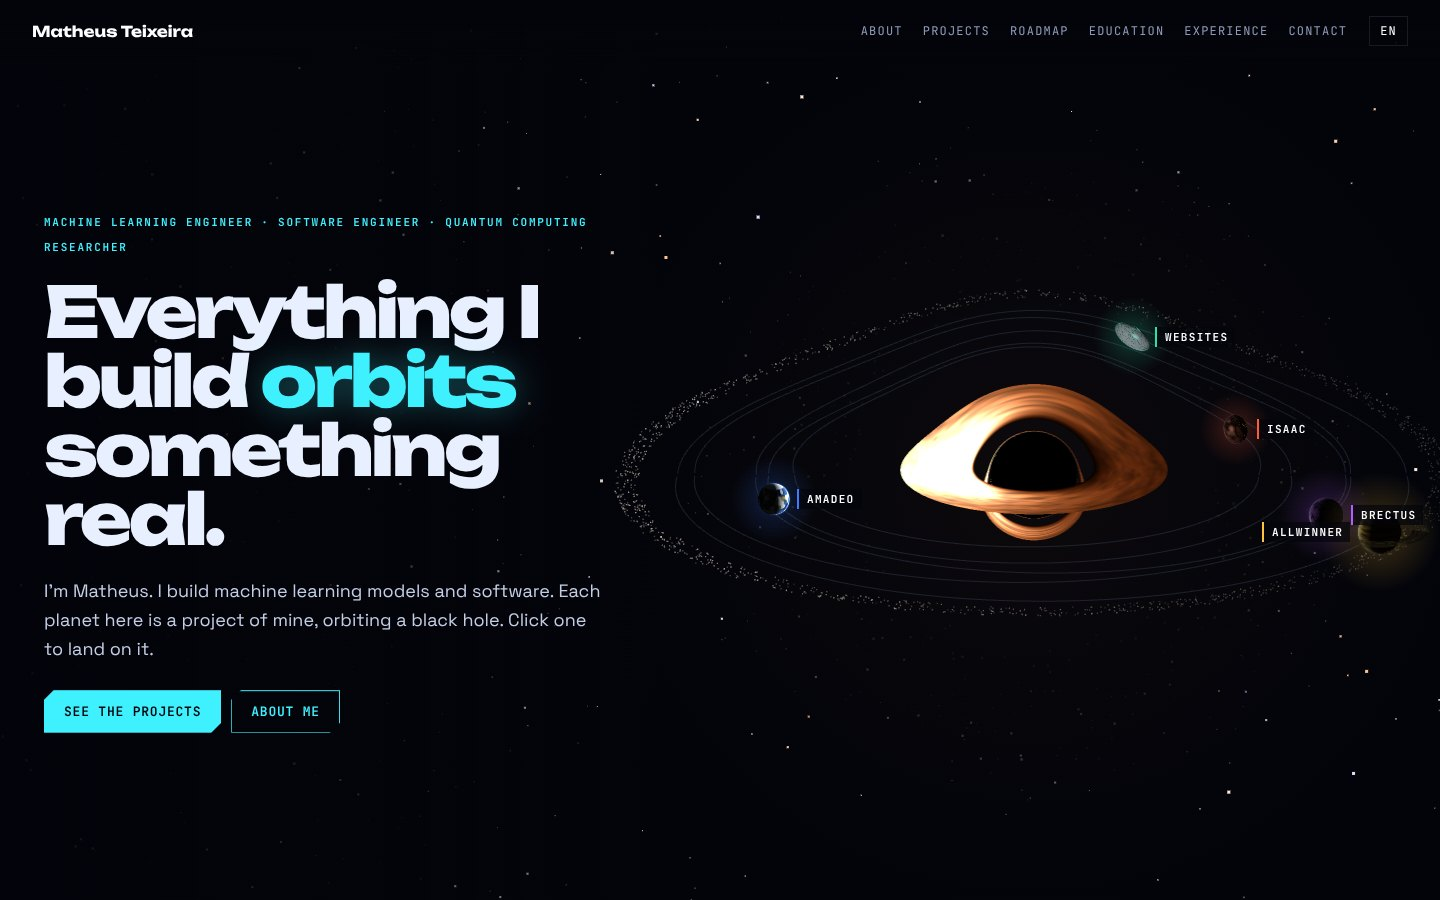
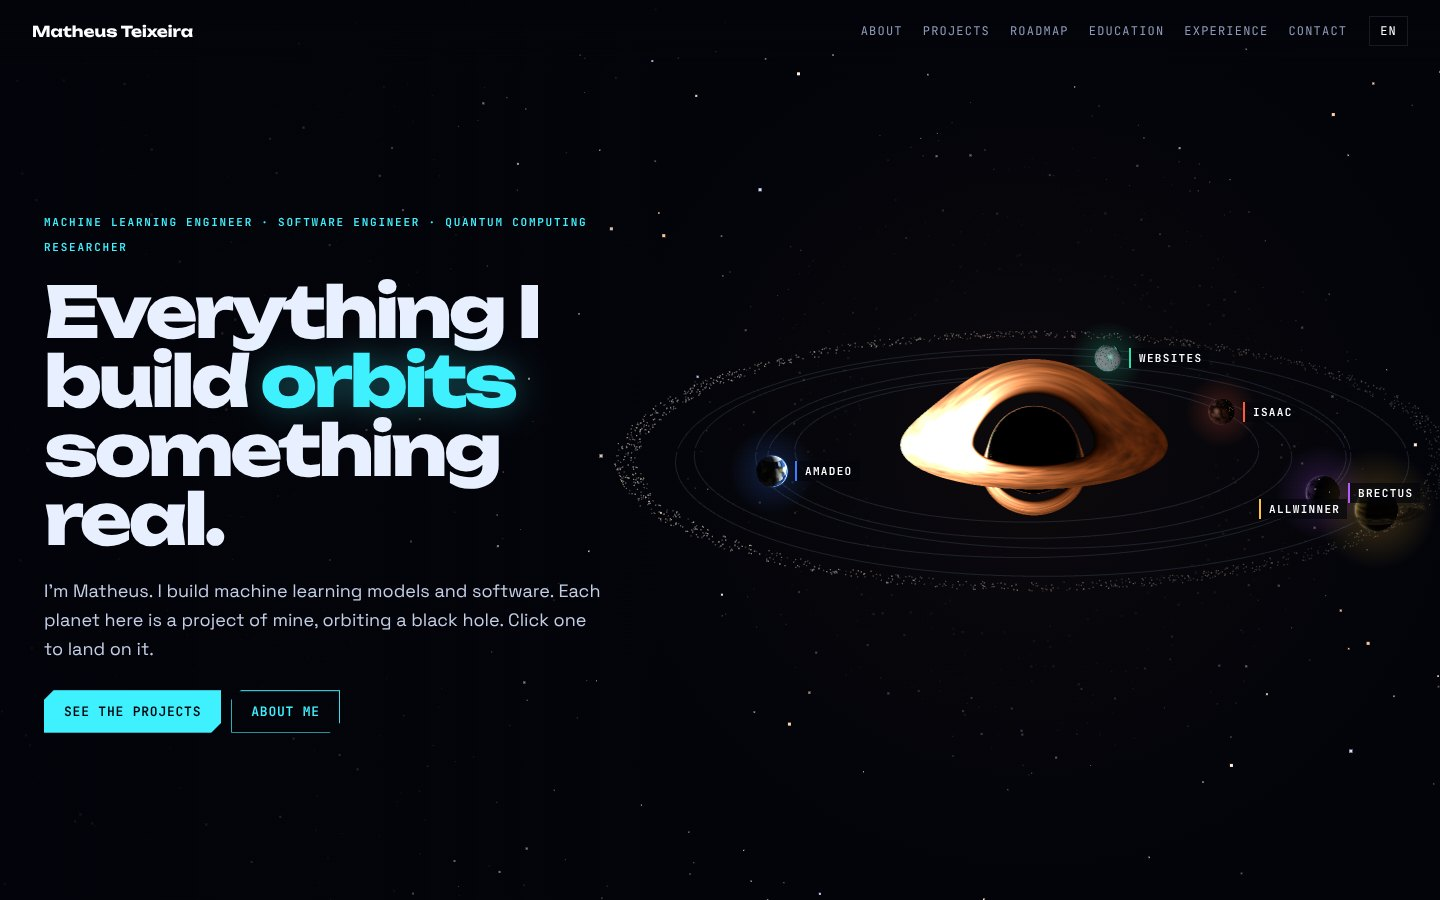
Draw the orbits, belt and planets flat again
The lensed orbits looked distorted. The disc still turns and the stars
are still lensed.

diff --git a/src/assets/js/sky.js b/src/assets/js/sky.js
@@ -62,17 +62,6 @@
     return [[tp * ux, tp * uy, rp, tp / s, rp * tp / s], [tm * ux, tm * uy, rm, tm / s, Math.abs(rm * tm / s)]];
   }
 
-  // Where a point of the disc plane (r, azimuth from the camera) is seen: the flat projection, bent
-  // by the hole when the point lies behind it. A point at depth z behind the hole is a source for a
-  // point-mass lens with Einstein radius squared 4 z D / (D + z) (D = CAM), measured at the hole.
-  // Returns [X, Y, radial stretch, tangential stretch, ux, uy] with (ux, uy) the outward direction.
-  function seen(r, ph) {
-    const f = flatP(r, ph), z = -r * Math.cos(ph) * SI;
-    if (z <= 0) return [f[0], f[1], 1, 1, 1, 0];
-    const s = Math.max(.05, Math.hypot(f[0], f[1])), im = lens(f[0], f[1], 4 * z * CAM / (CAM + z))[0];
-    return [im[0], im[1], im[2], im[3], f[0] / s, f[1] / s];
-  }
-
   // ---------- Canvases and layout ----------
   const sky = document.getElementById('sky'), bg = document.getElementById('bg'), fg = document.getElementById('fg'), bhc = document.getElementById('bh');
   const still = document.getElementById('bhstill'), labs = document.getElementById('labs');
@@ -88,16 +77,12 @@
     // Desktop: fit the outermost planet's orbit (apoapsis APO) in the space beside the intro text,
     // so no planet ever passes under the headline. The belt may run behind the text.
     const APO = Math.max(...PL.map(p => p.a * (1 + p.e)));
-    // Vertical room: the far side of the outer orbit is lifted by the hole's lensing to about 22 M
-    // above it, the near side reaches about 15.5 M below (perspective); planets add their radius.
-    const UP = 24.5, DN = 18.5;
     let cx = w * .5, cy = h * .5, K;
-    if (mob) K = Math.min((w - 16) / (2 * (APO + 3)), h / (UP + DN + 4)); // every planet stays on a phone screen
+    if (mob) K = Math.min((w - 16) / (2 * (APO + 3)), h / (2 * 17)); // every planet stays on a phone screen
     else {
       const free = S.rtl ? IR.l - 16 : w - IR.r - 16;
-      K = Math.max(5, Math.min(h * .94 / (UP + DN), free / (2 * APO + 4)));
+      K = Math.max(5, Math.min(h * .86 / (2 * 19), free / (2 * APO + 4)));
       cx = S.rtl ? IR.l - 8 - (APO + 2) * K : IR.r + 8 + (APO + 2) * K;
-      cy = (h - (UP + DN) * K) / 2 + UP * K;
     }
     K = Math.max(.5, K);   // a hidden or collapsed pane can report no width or height
     for (const c of [bg, fg, sc]) { c.width = Math.round(w * dpr); c.height = Math.round(h * dpr); }
@@ -359,17 +344,15 @@ void main(){ivec2 p=ivec2(gl_FragCoord.xy);vec4 c=texelFetch(uC,p,0),g=texelFetc
       ctx.strokeStyle = col; ctx.lineWidth = (on ? 1.6 : 1) * dpr; ctx.beginPath();
       let pen = false;
       for (const [r, ph] of pts) {
-        if ((which === 'f') === front(ph)) { const v = seen(r, ph), x = (cx + v[0] * K) * dpr, y = (cy - v[1] * K) * dpr; pen ? ctx.lineTo(x, y) : ctx.moveTo(x, y); pen = true; } else pen = false;
+        if ((which === 'f') === front(ph)) { const v = flatP(r, ph), x = (cx + v[0] * K) * dpr, y = (cy - v[1] * K) * dpr; pen ? ctx.lineTo(x, y) : ctx.moveTo(x, y); pen = true; } else pen = false;
       }
       ctx.stroke();
     }
   }
-  // Planet image on screen now, bent by the hole: moved outwards and stretched along the ring
-  // round the hole (M maps the planet's disc to its image, screen axes, Y up).
+  // Planet position on screen now, as seen without the bending of light: the orbits stay flat.
   function planetImage(p) {
-    const p3 = orbit(p, tau), [r, ph] = polar(p3), v = seen(r, ph);
-    const a = Math.min(3, v[2]), b = Math.min(3, v[3]), ux = v[4], uy = v[5], d = (a - b) * ux * uy;
-    return { X: v[0], Y: v[1], X0: flatP(r, ph)[0], M: [a * ux * ux + b * uy * uy, d, d, a * uy * uy + b * ux * ux], k: Math.sqrt(a * b), p3, r, ph };
+    const p3 = orbit(p, tau), [r, ph] = polar(p3), f = flatP(r, ph);
+    return { X: f[0], Y: f[1], X0: f[0], M: [1, 0, 0, 1], k: 1, p3, r, ph };
   }
   function draw() {
     const { w, h, cx, cy, K } = L, W = w * dpr, H = h * dpr;
@@ -390,9 +373,8 @@ void main(){ivec2 p=ivec2(gl_FragCoord.xy);vec4 c=texelFetch(uC,p,0),g=texelFetc
     const NB = 8, gs = 1.3 * dpr, bk = [[], []];
     for (let n = 0; n < NB; n++) { bk[0].push([]); bk[1].push([]); }
     for (let j = 0, step = QUAL[q].belt; j < BELT.length; j += step) {
-      const b = BELT[j], ph = b.ph + Om(b.r) * tau - phc, X0 = flatP(b.r, ph)[0], a = .5 * b.b * Math.min(3, Math.pow(gShift(b.r, X0), 4));
+      const b = BELT[j], ph = b.ph + Om(b.r) * tau - phc, v = flatP(b.r, ph), a = .5 * b.b * Math.min(3, Math.pow(gShift(b.r, v[0]), 4));
       if (a < .02) continue;
-      const v = seen(b.r, ph);
       bk[front(ph) ? 0 : 1][Math.min(NB - 1, Math.floor(Math.min(1, a) * NB))].push((cx + v[0] * K) * dpr, (cy - v[1] * K) * dpr);
     }
     [fx, bx].forEach((ctx, l) => bk[l].forEach((pts, n) => {

diff --git a/src/content/hi.py b/src/content/hi.py
@@ -479,7 +479,7 @@ C = {
    "यह ब्लैक होल उसी रे ट्रेसर से बनाया गया है जो मेरे भौतिकी सिम्युलेटर Isaac में है। हर पिक्सेल एक प्रकाश-किरण को पीछे की ओर, ब्लैक होल (जो अपनी धुरी पर नहीं घूमता) के आसपास के मुड़े हुए स्पेसटाइम से होकर ट्रेस करता है, डिस्क से 18° ऊपर से देखा गया। डिस्क गर्म गैस है, ब्लैक बॉडी के रंगों में, हमारी ओर आने वाली तरफ़ ज़्यादा चमकीली और ब्लैक होल के पास लाल विस्थापित। गैस उसी रफ़्तार से घूमती है जिससे असल में घूमती: भीतरी किनारा लगभग 2 सेकंड में एक चक्कर लगाता है, बाहरी लगभग 9 सेकंड में। छाया के चारों ओर की पतली चमकीली रिंग वह प्रकाश है जो हम तक पहुँचने से पहले ब्लैक होल का चक्कर लगा आया।",
    "ग्रह और क्षुद्रग्रह पट्टी डिस्क के तल में परिक्रमा करते हैं, सब एक ही घड़ी पर: सबसे भीतरी ग्रह लगभग 23 सेकंड में एक चक्कर लगाता है, सबसे बाहरी लगभग 46 में। उनकी दीर्घवृत्ताकार कक्षाएँ धीरे-धीरे घूमती हैं, जैसा सामान्य सापेक्षता बताती है, और हर ग्रह ब्लैक होल की ओर एक ही चेहरा रखता है।",
    "यहाँ एक सेकंड 40 M समय के बराबर है, जहाँ M समय की इकाइयों में ब्लैक होल का द्रव्यमान है। 10 करोड़ सूर्यों के ब्लैक होल के लिए यह असल गति का लगभग 20,000 गुना है। कैमरा धीरे-धीरे ब्लैक होल के चारों ओर घूमता है।",
-   "ग्रहों, पट्टी और कक्षाओं की रोशनी भी तारों की रोशनी की तरह ब्लैक होल से मुड़ती है, इसलिए हर कक्षा का पिछला हिस्सा उसके ऊपर उठा हुआ दिखता है। सिर्फ़ ग्रह पैमाने पर नहीं हैं: वे असल से हज़ारों गुना बड़े दिखाए गए हैं।"
+   "दो चीज़ें पैमाने पर नहीं हैं। कक्षाएँ, पट्टी और ग्रह उनकी रोशनी के मुड़ने के बिना बनाए गए हैं, जो हर कक्षा के पिछले हिस्से को ब्लैक होल के ऊपर उठा देता, और ग्रह असल से हज़ारों गुना बड़े दिखाए गए हैं।"
   ]
  },
  "nf": {

diff --git a/src/content/ar.py b/src/content/ar.py
@@ -479,7 +479,7 @@ C = {
    "يُرسم الثقب الأسود بمتتبّع الأشعة نفسه المستخدم في Isaac، محاكي الفيزياء الخاص بي. يتتبّع كل بكسل شعاعًا ضوئيًا إلى الوراء عبر الزمكان المنحني حول الثقب (وهو لا يدور حول نفسه)، يُرى من ارتفاع 18° فوق قرصه. القرص غاز ساخن ملوّن كجسم أسود، أشد سطوعًا في الجانب المقترب منا ومنزاح نحو الأحمر قرب الثقب. يدور الغاز بالسرعة التي كان سيدور بها فعلًا: تُكمل الحافة الداخلية دورة في نحو ثانيتين، والخارجية في نحو 9 ثوانٍ. الحلقة الرفيعة الساطعة حول الظل ضوء دار حول الثقب قبل أن يصل إلينا.",
    "تدور الكواكب وحزام الكويكبات في مستوى القرص، وكلها على ساعة واحدة: يكمل أقرب كوكب دورته في نحو 23 ثانية، وأبعدها في نحو 46. تدور قطوعها الناقصة ببطء كما تتنبأ النسبية العامة، ويُبقي كل كوكب وجهًا واحدًا نحو الثقب.",
    "الثانية هنا تساوي 40 M من الزمن، حيث M كتلة الثقب بوحدات الزمن. لثقب كتلته 100 مليون شمس، هذا نحو 20,000 ضعف السرعة الحقيقية. تدور الكاميرا ببطء حول الثقب.",
-   "ضوء الكواكب والحزام والمدارات ينحني حول الثقب كما ينحني ضوء النجوم، ولذلك يبدو الجانب البعيد من كل مدار مرفوعًا فوقه. الكواكب وحدها ليست بمقياس حقيقي: فهي مرسومة أكبر بآلاف المرات مما ستكون عليه."
+   "شيئان ليسا بمقياس حقيقي. المدارات والحزام والكواكب مرسومة دون انحناء ضوئها، الذي كان سيرفع الجانب البعيد من كل مدار فوق الثقب، والكواكب مرسومة أكبر بآلاف المرات مما ستكون عليه."
   ]
  },
  "nf": {

diff --git a/src/content/fr.py b/src/content/fr.py
@@ -479,7 +479,7 @@ C = {
    "Le trou noir est dessiné avec le même lancer de rayons qu’Isaac, mon simulateur de physique. Chaque pixel suit un rayon de lumière à rebours dans l’espace-temps courbe autour du trou (qui ne tourne pas sur lui-même), vu 18° au-dessus de son disque. Le disque est un gaz chaud, coloré comme un corps noir, plus brillant du côté qui vient vers nous et décalé vers le rouge près du trou. Le gaz tourne à la vitesse qu’il aurait réellement : le bord intérieur fait un tour en 2 secondes environ, le bord extérieur en 9. L’anneau fin et brillant autour de l’ombre est de la lumière qui a fait le tour du trou avant de nous atteindre.",
    "Les planètes et la ceinture d’astéroïdes orbitent dans le plan du disque, toutes sur la même horloge : la planète la plus proche fait un tour en environ 23 secondes, la plus éloignée en environ 46. Leurs ellipses tournent lentement, comme le prévoit la relativité générale, et chaque planète garde une face tournée vers le trou.",
    "Une seconde ici vaut 40 M de temps, où M est la masse du trou exprimée en temps. Pour un trou de 100 millions de soleils, cela fait environ 20 000 fois la vitesse réelle. La caméra tourne lentement autour du trou.",
-   "La lumière des planètes, de la ceinture et des orbites est déviée par le trou, comme celle des étoiles : l’arrière de chaque orbite paraît donc relevé au-dessus de lui. Seules les planètes ne sont pas à l’échelle : elles sont dessinées des milliers de fois plus grandes qu’elles ne le seraient."
+   "Deux choses ne sont pas à l’échelle. Les orbites, la ceinture et les planètes sont dessinées sans la déviation de leur lumière, qui relèverait l’arrière de chaque orbite au-dessus du trou, et les planètes sont dessinées des milliers de fois plus grandes qu’elles ne le seraient."
   ]
  },
  "nf": {

diff --git a/src/content/de.py b/src/content/de.py
@@ -479,7 +479,7 @@ C = {
    "Das Schwarze Loch wird mit demselben Raytracer gezeichnet wie in Isaac, meinem Physiksimulator. Jedes Pixel folgt einem Lichtstrahl rückwärts durch die gekrümmte Raumzeit um das Loch (das sich nicht dreht), gesehen 18° über seiner Scheibe. Die Scheibe ist heißes Gas, gefärbt wie ein schwarzer Körper, heller auf der Seite, die auf uns zukommt, und nahe am Loch rotverschoben. Das Gas kreist so schnell, wie es das wirklich täte: Der innere Rand braucht für eine Runde etwa 2 Sekunden, der äußere etwa 9. Der dünne helle Ring um den Schatten ist Licht, das das Loch umrundet hat, bevor es uns erreicht.",
    "Die Planeten und der Asteroidengürtel umkreisen das Loch in der Ebene der Scheibe, alle nach derselben Uhr: Der innerste Planet braucht für eine Runde etwa 23 Sekunden, der äußerste etwa 46. Ihre Ellipsen drehen sich langsam, wie die allgemeine Relativitätstheorie vorhersagt, und jeder Planet wendet dem Loch stets dieselbe Seite zu.",
    "Eine Sekunde hier sind 40 M Zeit, wobei M die Masse des Lochs in Zeiteinheiten ist. Für ein Loch von 100 Millionen Sonnen sind das etwa 20.000-fache Echtzeit. Die Kamera kreist langsam um das Loch.",
-   "Das Licht der Planeten, des Gürtels und der Umlaufbahnen wird vom Loch abgelenkt wie das der Sterne, deshalb erscheint die Rückseite jeder Umlaufbahn über das Loch gehoben. Nur die Planeten sind nicht maßstabsgetreu: Sie sind tausendfach größer gezeichnet, als sie wären."
+   "Zwei Dinge sind nicht maßstabsgetreu. Umlaufbahnen, Gürtel und Planeten sind ohne die Ablenkung ihres Lichts gezeichnet, die die Rückseite jeder Umlaufbahn über das Loch heben würde, und die Planeten sind tausendfach größer gezeichnet, als sie wären."
   ]
  },
  "nf": {

diff --git a/src/content/es.py b/src/content/es.py
@@ -479,7 +479,7 @@ C = {
    "El agujero negro se dibuja con el mismo trazador de rayos que Isaac, mi simulador de física. Cada píxel sigue un rayo de luz hacia atrás por el espacio-tiempo curvo alrededor del agujero (que no gira), visto 18° por encima de su disco. El disco es gas caliente, coloreado como un cuerpo negro, más brillante en el lado que se acerca y desplazado al rojo cerca del agujero. El gas gira a la velocidad que tendría de verdad: el borde interior da una vuelta en unos 2 segundos, el exterior en unos 9. El anillo fino y brillante alrededor de la sombra es luz que rodeó el agujero antes de llegar hasta nosotros.",
    "Los planetas y el cinturón de asteroides orbitan en el plano del disco, todos con el mismo reloj: el planeta más interior da una vuelta en unos 23 segundos, el más exterior en unos 46. Sus elipses giran despacio, como predice la relatividad general, y cada planeta muestra siempre la misma cara al agujero.",
    "Un segundo aquí equivale a 40 M de tiempo, donde M es la masa del agujero en unidades de tiempo. Para un agujero de 100 millones de soles, son unas 20.000 veces la velocidad real. La cámara gira despacio alrededor del agujero.",
-   "La luz de los planetas, del cinturón y de las órbitas se curva junto al agujero, como la de las estrellas, y por eso la parte trasera de cada órbita aparece levantada sobre él. Solo los planetas no están a escala: se dibujan miles de veces más grandes de lo que serían."
+   "Dos cosas no están a escala. Las órbitas, el cinturón y los planetas se dibujan sin la curvatura de su luz, que levantaría la parte trasera de cada órbita sobre el agujero, y los planetas se dibujan miles de veces más grandes de lo que serían."
   ]
  },
  "nf": {

diff --git a/src/content/pt.py b/src/content/pt.py
@@ -479,7 +479,7 @@ C = {
    "O buraco negro é desenhado com o mesmo traçador de raios do Isaac, meu simulador de física. Cada pixel segue um raio de luz de volta pelo espaço-tempo curvo em torno do buraco (que não gira), visto 18° acima do disco. O disco é gás quente, colorido como um corpo negro, mais brilhante do lado que vem em nossa direção e desviado para o vermelho perto do buraco. O gás gira na velocidade que teria de verdade: a borda interna dá uma volta em cerca de 2 segundos, a externa em cerca de 9. O anel fino e brilhante em volta da sombra é luz que contornou o buraco antes de chegar até nós.",
    "Os planetas e o cinturão de asteroides orbitam no plano do disco, todos no mesmo relógio: o planeta mais interno dá uma volta em cerca de 23 segundos, o mais externo em cerca de 46. As elipses giram devagar, como prevê a relatividade geral, e cada planeta mantém uma face voltada para o buraco.",
    "Um segundo aqui são 40 M de tempo, em que M é a massa do buraco em unidades de tempo. Para um buraco de 100 milhões de sóis, isso é cerca de 20.000 vezes a velocidade real. A câmera gira devagar em torno do buraco.",
-   "A luz dos planetas, do cinturão e das órbitas é desviada pelo buraco, como a das estrelas, e por isso o lado de trás de cada órbita aparece erguido acima dele. Só os planetas não estão em escala: aparecem milhares de vezes maiores do que seriam."
+   "Duas coisas não estão em escala. As órbitas, o cinturão e os planetas são desenhados sem o desvio da sua luz, que ergueria o lado de trás de cada órbita acima do buraco, e os planetas aparecem milhares de vezes maiores do que seriam."
   ]
  },
  "nf": {

diff --git a/src/content/en.py b/src/content/en.py
@@ -529,7 +529,7 @@ C = {
    "The black hole is drawn with the same ray tracer as Isaac, my physics simulator. Every pixel follows a light ray back through the curved spacetime around the hole (which does not spin), seen from 18° above its disc. The disc is hot gas, coloured as a black body, brighter on the side moving towards us and redshifted close to the hole. The gas orbits as fast as it really would: the inner edge goes round in about 2 seconds, the outer edge in about 9. The thin bright ring around the shadow is light that circled the hole before reaching us.",
    "The planets and the asteroid belt orbit in the plane of the disc, all on one clock: the innermost planet laps in about 23 seconds, the outermost in about 46. Their ellipses turn slowly, as general relativity predicts, and each planet keeps one face towards the hole.",
    "One second here is 40 M of time, where M is the hole’s mass in units of time. For a hole of 100 million suns, that is about 20,000 times real speed. The camera drifts slowly around the hole.",
-   "The light of the planets, the belt and the orbits is bent by the hole, like the light of the stars, so the far side of every orbit appears lifted over it. Only the planets are not to scale: they are drawn thousands of times larger than they would be."
+   "Two things are not to scale. The orbits, the belt and the planets are drawn without the bending of their light, which would lift the far side of every orbit over the hole, and the planets are drawn thousands of times larger than they would be."
   ]
  },
  "nf": {

diff --git a/src/content/zh.py b/src/content/zh.py
@@ -479,7 +479,7 @@ C = {
    "这个黑洞用的是和我的物理模拟器 Isaac 相同的光线追踪器。每个像素都沿一条光线反向穿过黑洞（不自转）周围的弯曲时空，视角在吸积盘上方 18°。吸积盘是炽热的气体，按黑体着色，朝我们运动的一侧更亮，靠近黑洞处发生红移。气体以真实的速度绕转：内缘约 2 秒转一圈，外缘约 9 秒。阴影周围那道细亮的光环，是绕过黑洞后才到达我们的光。",
    "行星和小行星带在吸积盘平面内运行，共用一个时钟：最内侧的行星约 23 秒转一圈，最外侧约 46 秒。它们的椭圆轨道缓慢转动，正如广义相对论所预言，每颗行星始终以同一面朝向黑洞。",
    "这里的一秒相当于 40 M 的时间，M 是以时间为单位的黑洞质量。对一个一亿倍太阳质量的黑洞，这大约是真实速度的 20,000 倍。镜头缓慢绕黑洞转动。",
-   "行星、小行星带和轨道的光线也像星光一样被黑洞弯曲，所以每条轨道的远侧看起来被抬到了黑洞上方。只有行星不按比例：它们被画得比实际大几千倍。"
+   "有两处不按比例。轨道、小行星带和行星在绘制时没有考虑其光线的弯曲（否则每条轨道的远侧会被抬到黑洞上方），行星也被画得比实际大几千倍。"
   ]
  },
  "nf": {

diff --git a/README.md b/README.md
@@ -46,12 +46,12 @@ The planets and the belt orbit in the plane of the disc on one clock (40 M of ti
 distance scale. Planet orbits precess at Ω − κ, with Ω = r^−1.5 and κ = Ω √(1 − 6/r) the radial
 epicyclic frequency, and planets and belt are brightened or dimmed by g⁴ like the disc. The hole is
 taken as 10⁸ solar masses, so every planet orbits outside its Roche limit. The camera circles the hole
-once every three hours of screen time; the distant stars sweep past at the matching rate. Stars,
-orbits, belt and planets are all lensed with the point-mass lens (for a point at depth z behind the
-hole, Einstein radius² = 4 z D / (D + z)), which lifts the far side of every orbit over the hole and
-stretches a planet along the ring when it passes behind.
+once every three hours of screen time; the distant stars sweep past at the matching rate and are lensed
+with the point-mass lens.
 
-One display choice is not physical: the planets are drawn thousands of times larger than they would be.
+Two display choices are not physical: the orbits, belt and planets are drawn without the bending of
+their light (which would lift the far side of every orbit over the hole), and the planets are drawn
+thousands of times larger than they would be.
 
 The sky always moves. It draws at most about 95 frames a second, and if the frame rate stays below
 about 33 for two seconds it steps down the canvas resolution, the number of stars and belt grains and
